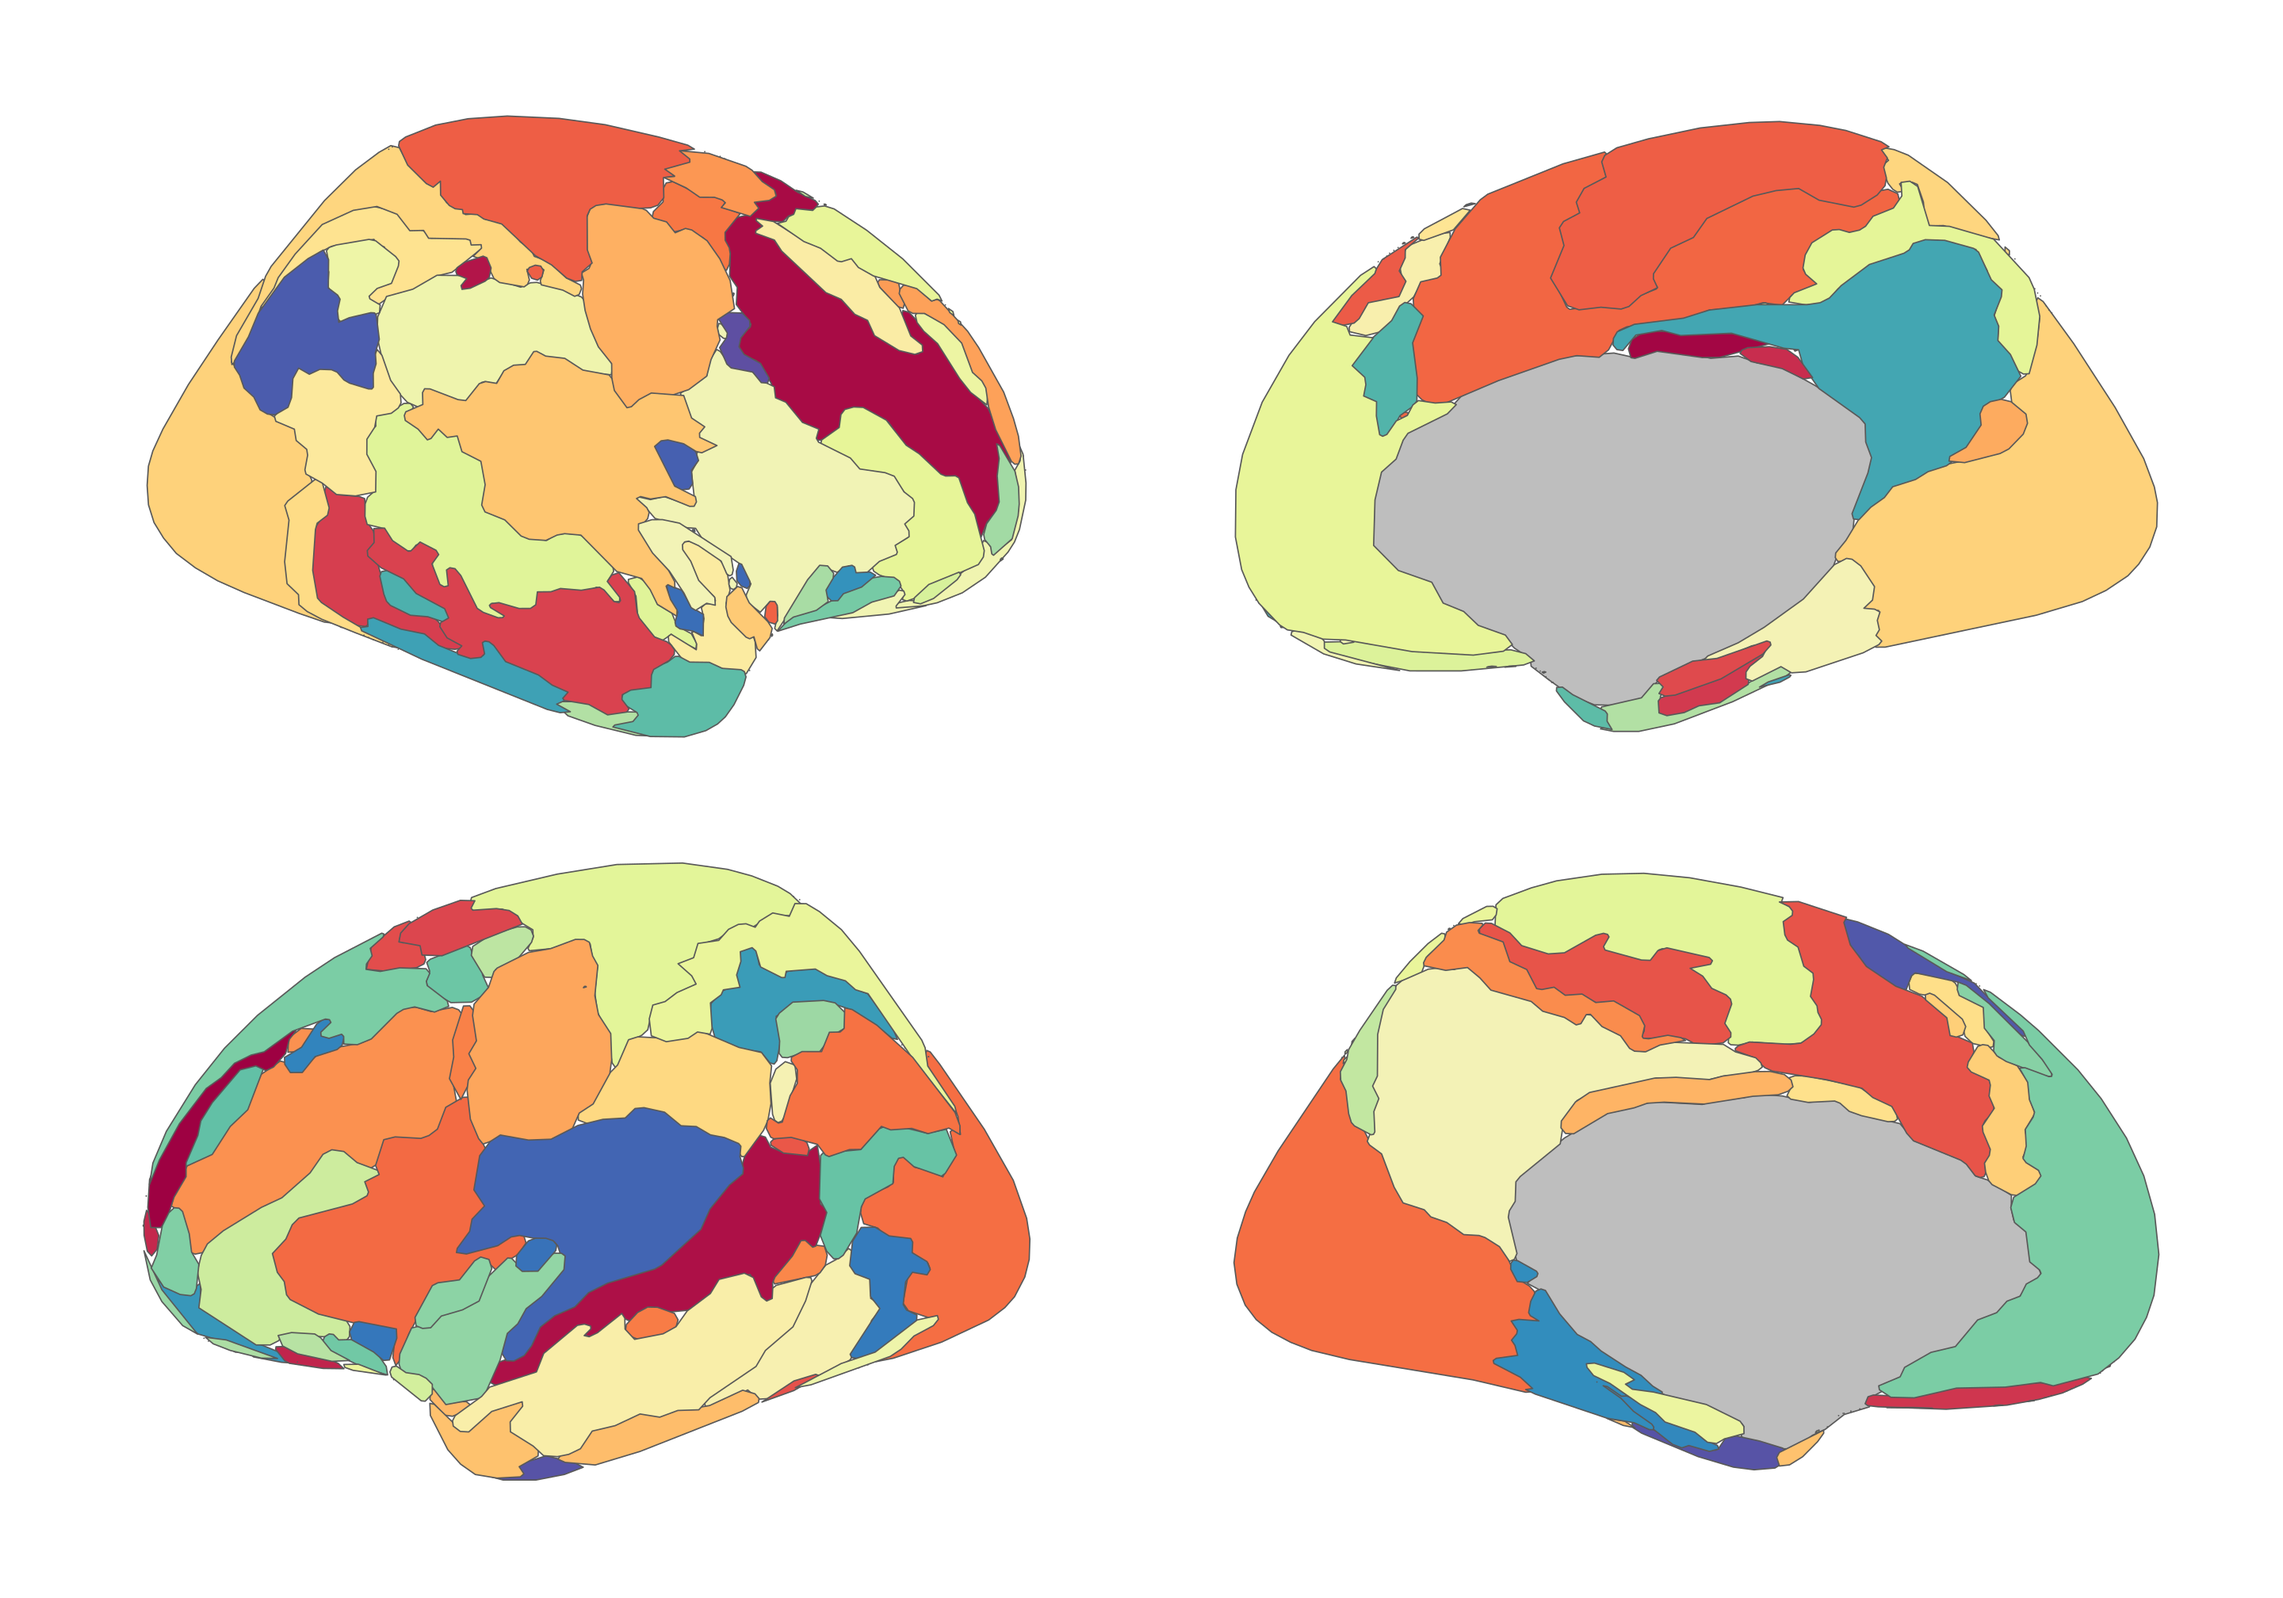
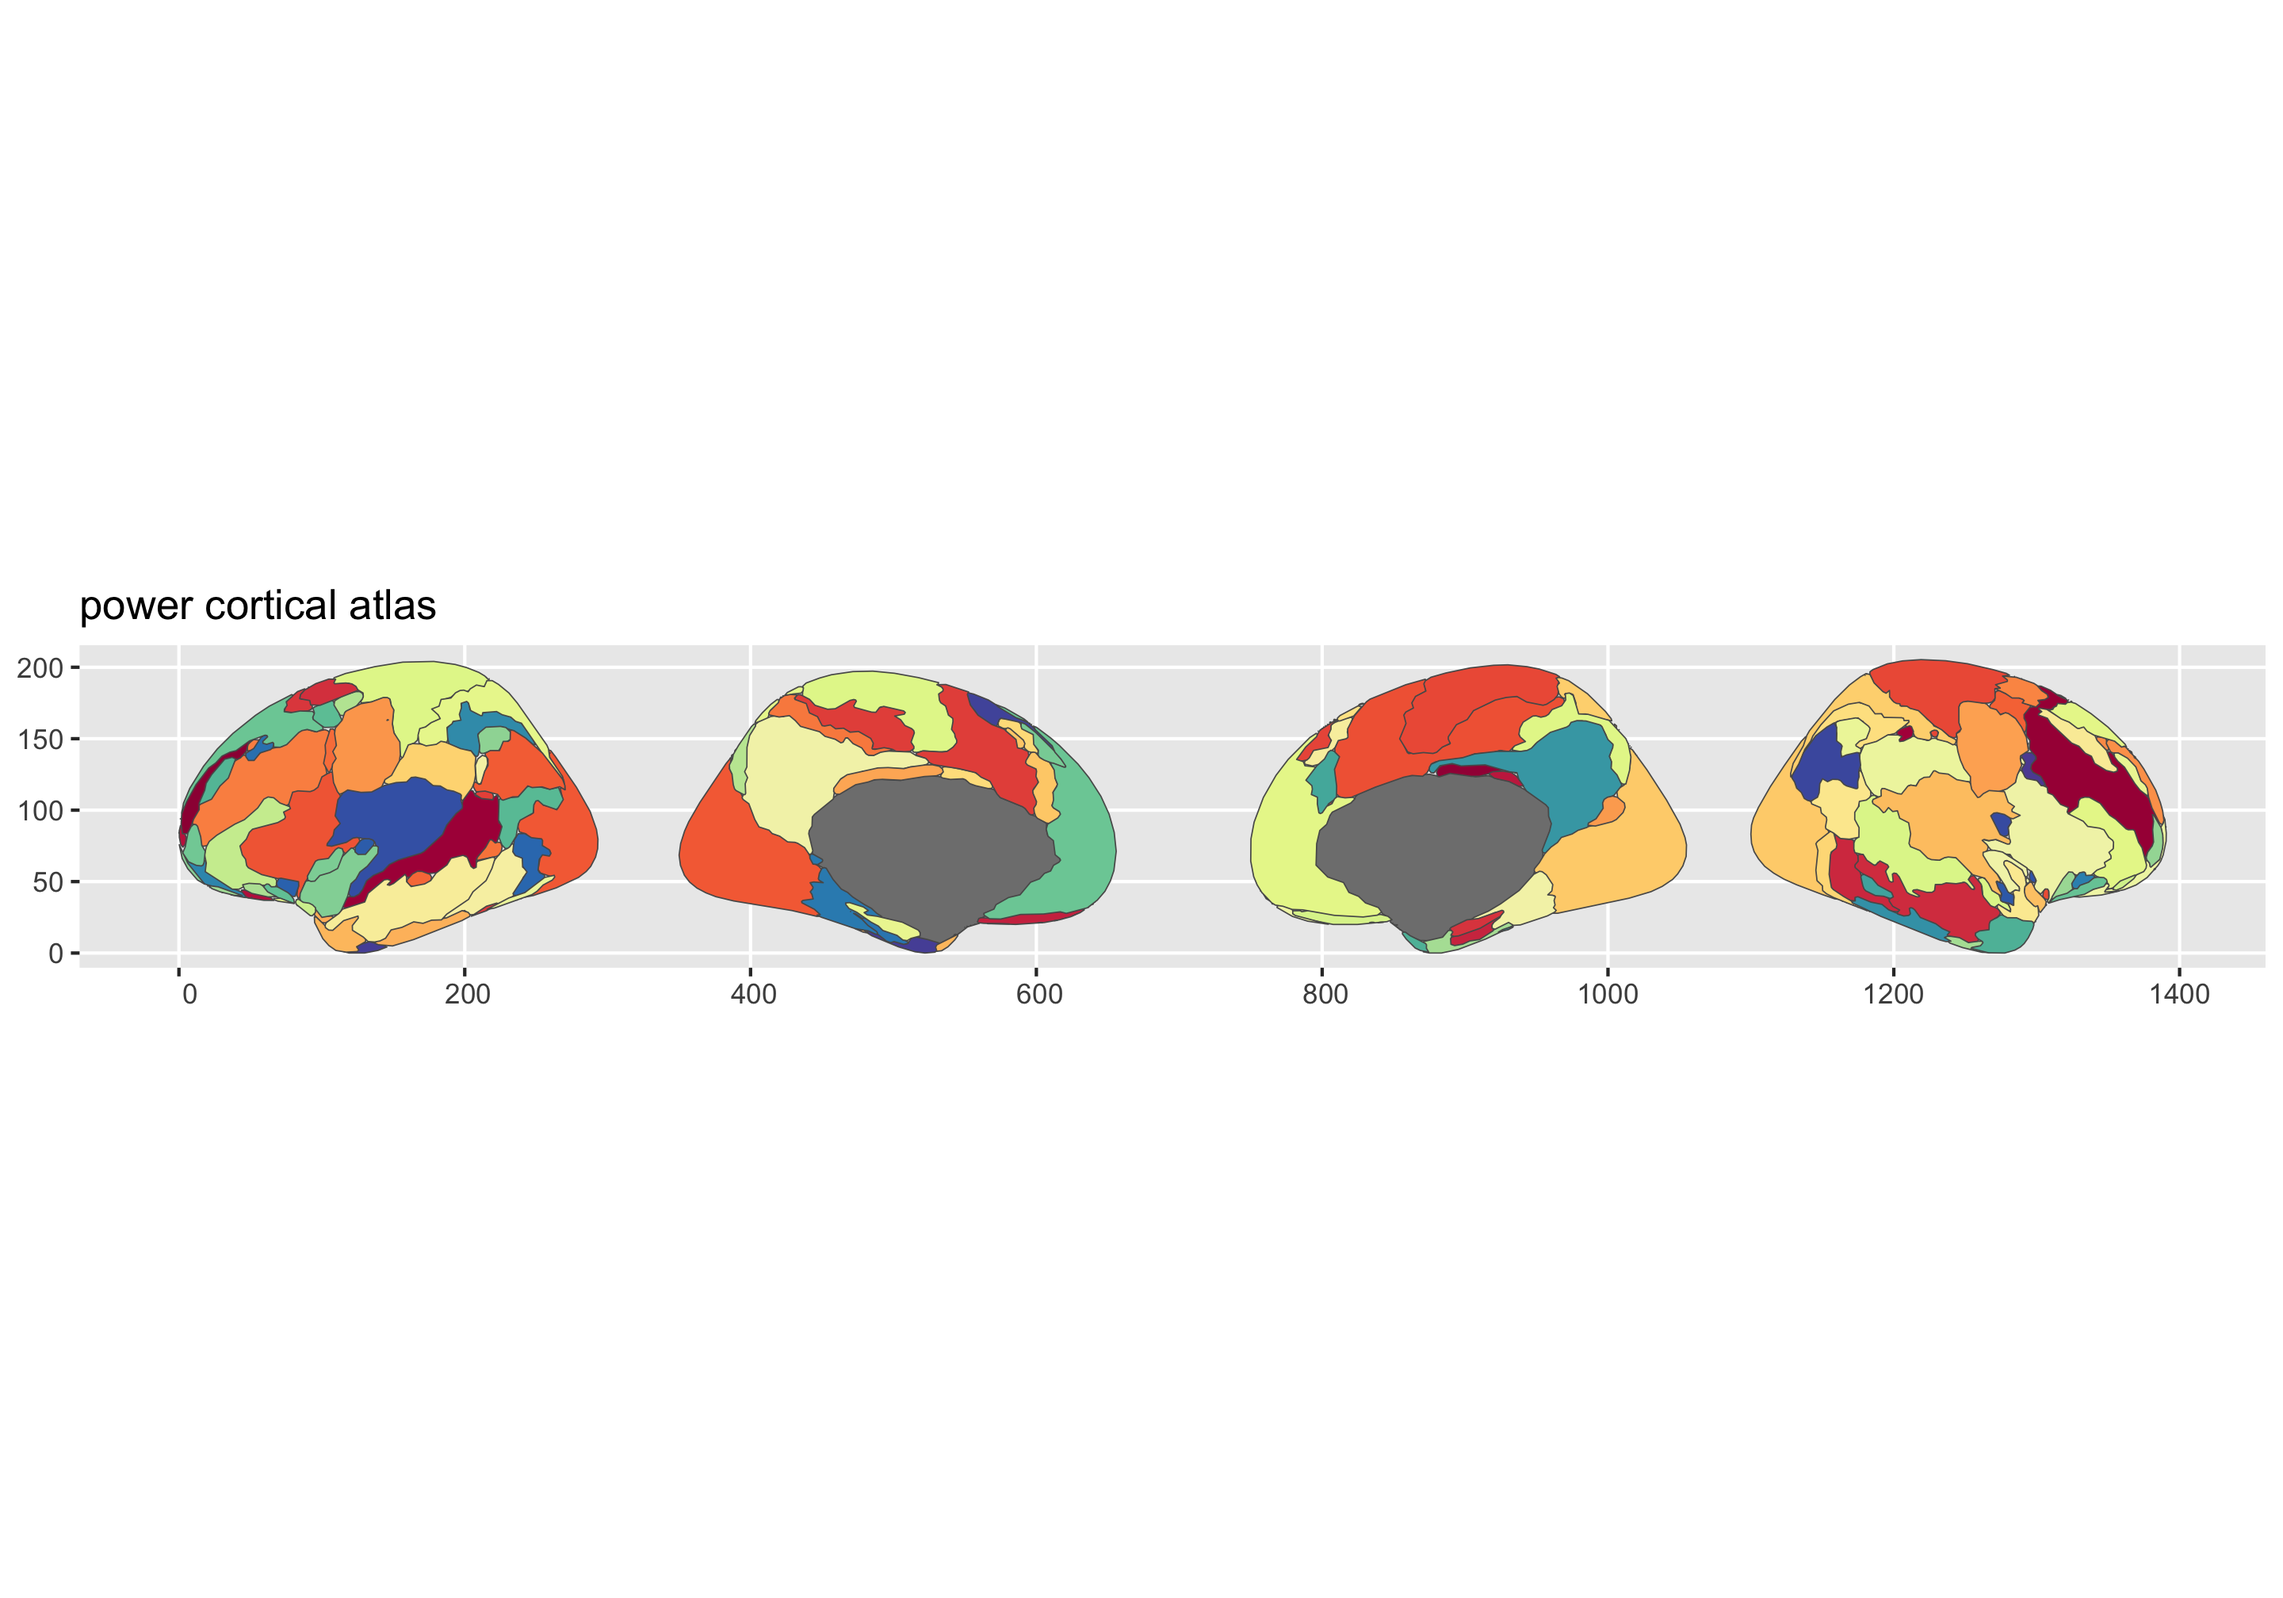
Simplify README plot examples to use plot()
Remove explicit ggplot() + geom_brain(mapping = aes(fill = label)) +
scale_fill_manual() in favour of plot(), which handles colours by default.

diff --git a/README.md b/README.md
@@ -1,44 +1,65 @@
 
-<!-- README.md is generated from README.Rmd. Please edit that file -->
 
-# ggsegPower
+<!-- README.md is generated from README.qmd. Please edit that file -->
+
+# ggsegPower <img src='man/figures/logo.png' align="right" height="138.5" />
 
 <!-- badges: start -->
 
-[![R-CMD-check](https://github.com/ggsegverse/ggsegPower/actions/workflows/R-CMD-check.yaml/badge.svg)](https://github.com/ggsegverse/ggsegPower/actions/workflows/R-CMD-check.yaml)
-[![r-universe](https://ggsegverse.r-universe.dev/badges/ggsegPower)](https://ggsegverse.r-universe.dev/ggsegPower)
+[![R-CMD-check](https://github.com/ggseg/ggsegPower/workflows/R-CMD-check/badge.svg)](https://github.com/ggseg/ggsegPower/actions)
+[![DOI](https://zenodo.org/badge/417497619.svg)](https://zenodo.org/badge/latestdoi/417497619)
 <!-- badges: end -->
 
-Power Atlas for the ggsegverse Ecosystem.
+This package contains dataset for plotting the Power atlas for
+ggsegverse.
+
+Power, J. D., Cohen, A. L., Nelson, S. M., Wig, G. S., Barnes, K. A.,
+Church, J. A., … & Petersen, S. E. (2011). Functional network
+organization of the human brain. Neuron, 72(4), 665-678.
+[PubMed](https://www.ncbi.nlm.nih.gov/pmc/articles/PMC3222858/)
+
+To learn how to use these atlases, please look at the documentation for
+[ggseg](https://ggseg.github.io/ggseg/)
 
 ## Installation
 
-``` r
-# From r-universe
-install.packages("ggsegPower", repos = "https://ggsegverse.r-universe.dev")
+We recommend installing the ggseg-atlases through the ggseg
+[r-universe](https://ggseg.r-universe.dev/ui#builds):
 
-# From GitHub
-# install.packages("remotes")
-remotes::install_github("ggsegverse/ggsegPower")
+``` r
+options(
+  repos = c(
+    ggseg = "https://ggseg.r-universe.dev",
+    CRAN = "https://cloud.r-project.org"
+  )
+)
+
+install.packages("ggsegPower")
 ```
 
-## Atlases
+You can install from [GitHub](https://github.com/) with:
 
-### power
+``` r
+# install.packages("remotes")
+remotes::install_github("ggseg/ggsegPower")
+```
 
-Power cortical parcellation.
+## Example
 
 ``` r
 library(ggsegPower)
+#> 
+#> Attaching package: 'ggsegPower'
+#> The following object is masked from 'package:stats':
+#> 
+#>     power
+library(ggseg)
+
 plot(power())
 ```
 
-<img src="man/figures/README-power-1.png" alt="" width="100%" /> \##
-Data source
+<img src="man/figures/README-2d-plot-1.png" style="width:100.0%" />
 
-Annotation files on fsaverage5.
-
-- **Reference**: Power et al. (2011)
-  [doi:10.1016/j.neuron.2011.09.006](https://doi.org/10.1016/j.neuron.2011.09.006)
-
-- **Date obtained**: 2021-10-15
+Please note that the ‘ggsegPower’ project is released with a
+[Contributor Code of Conduct](CODE_OF_CONDUCT.md). By contributing to
+this project, you agree to abide by its terms.
